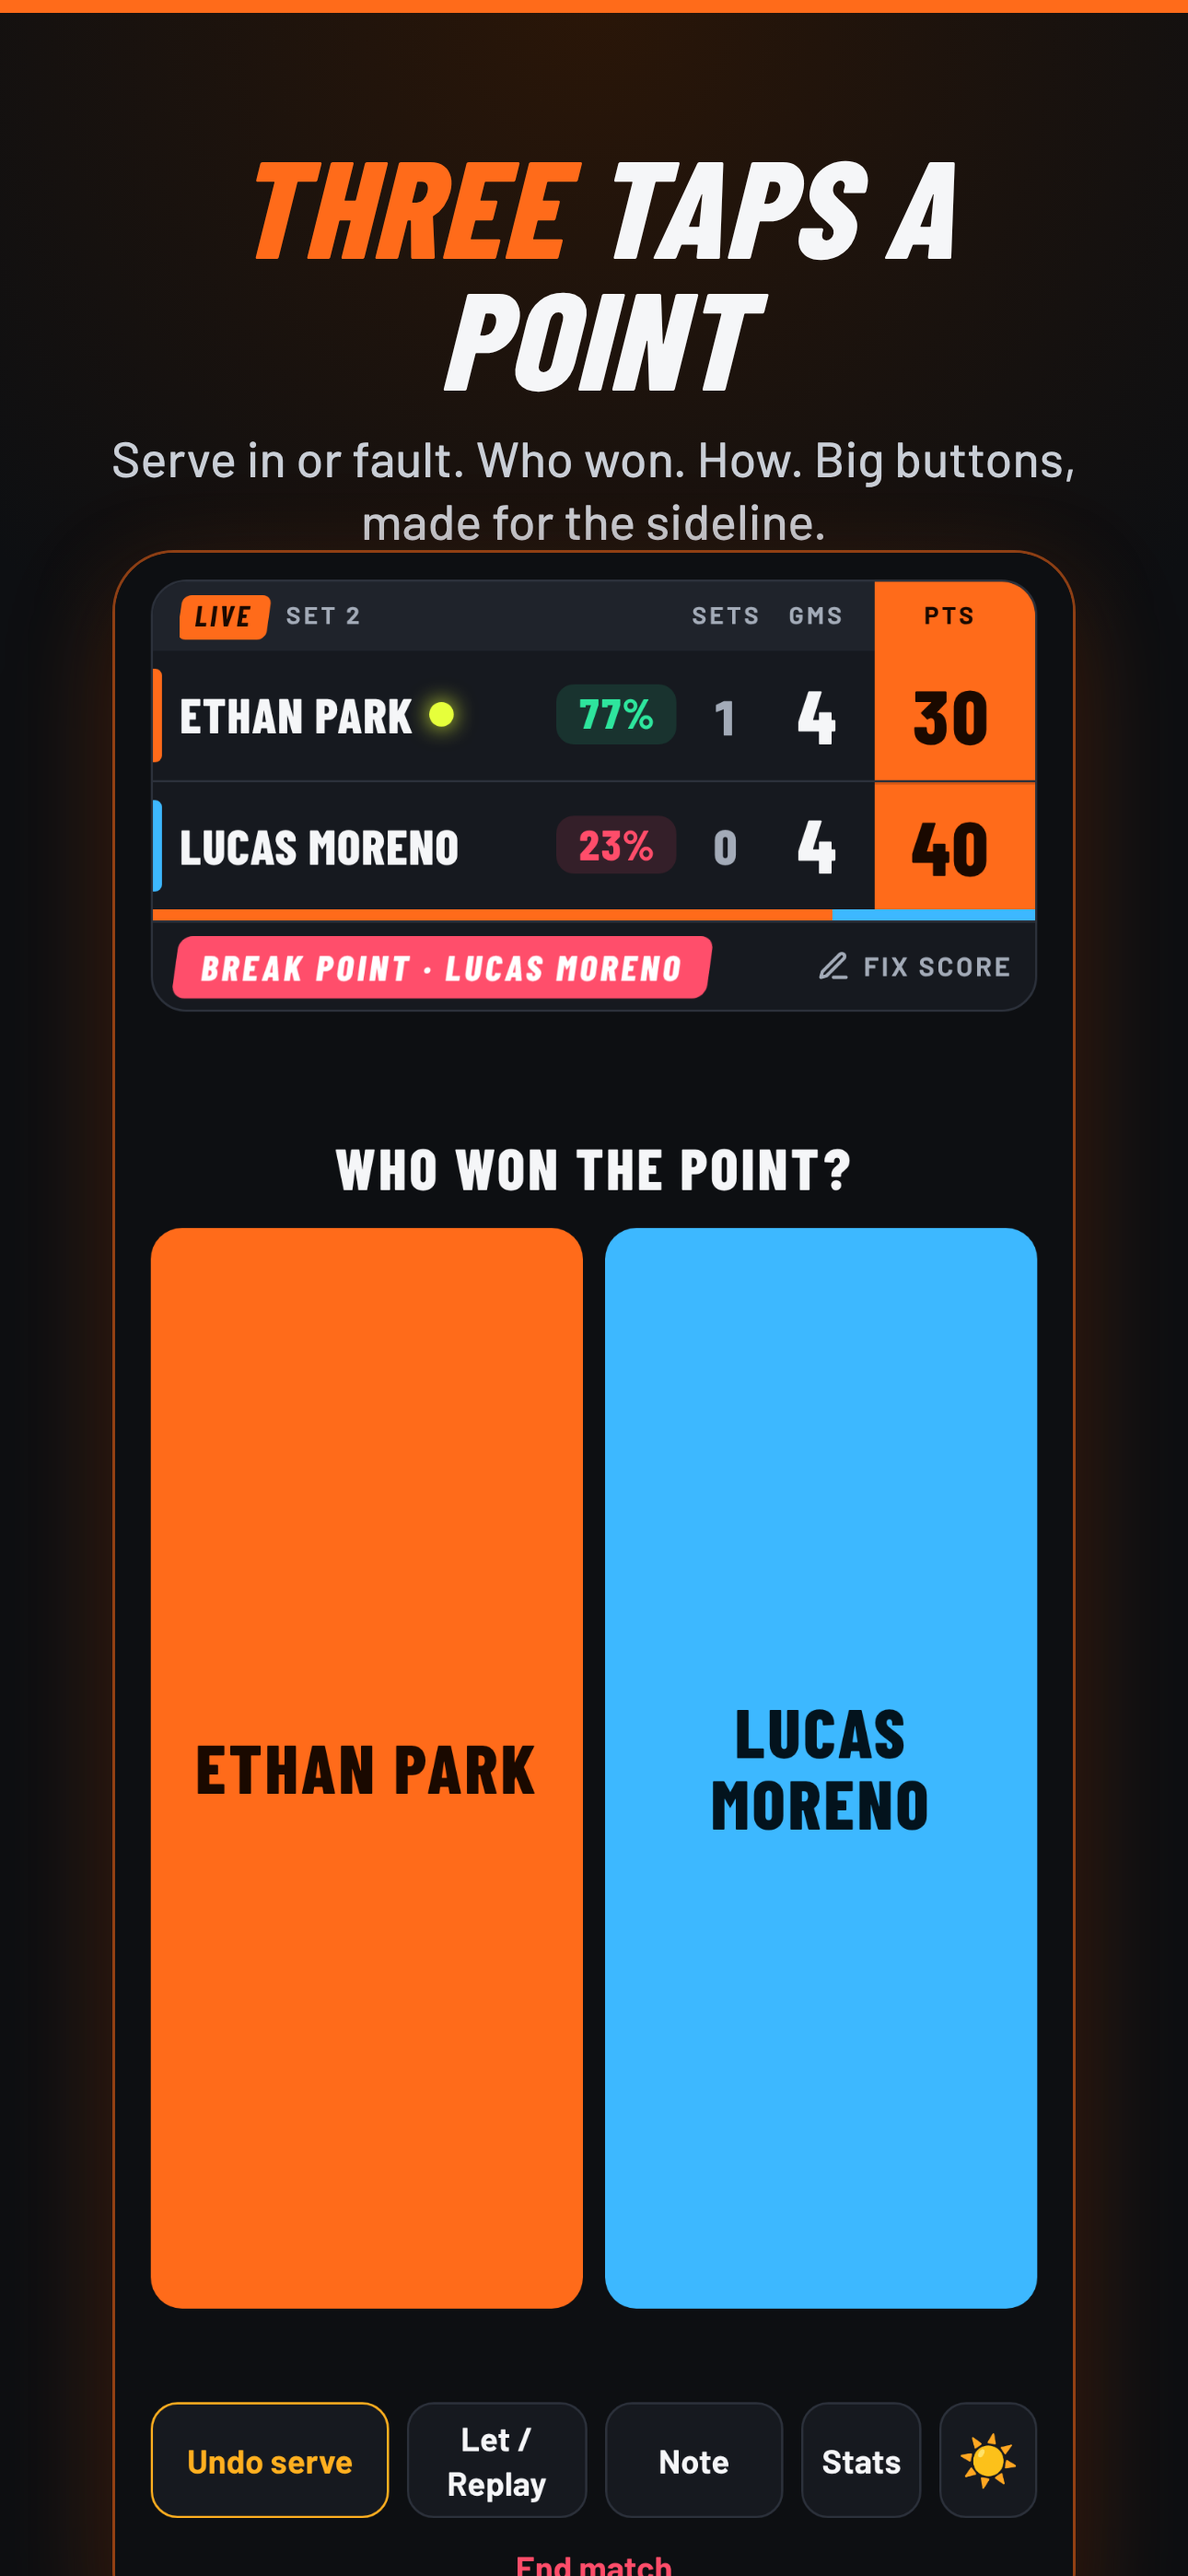
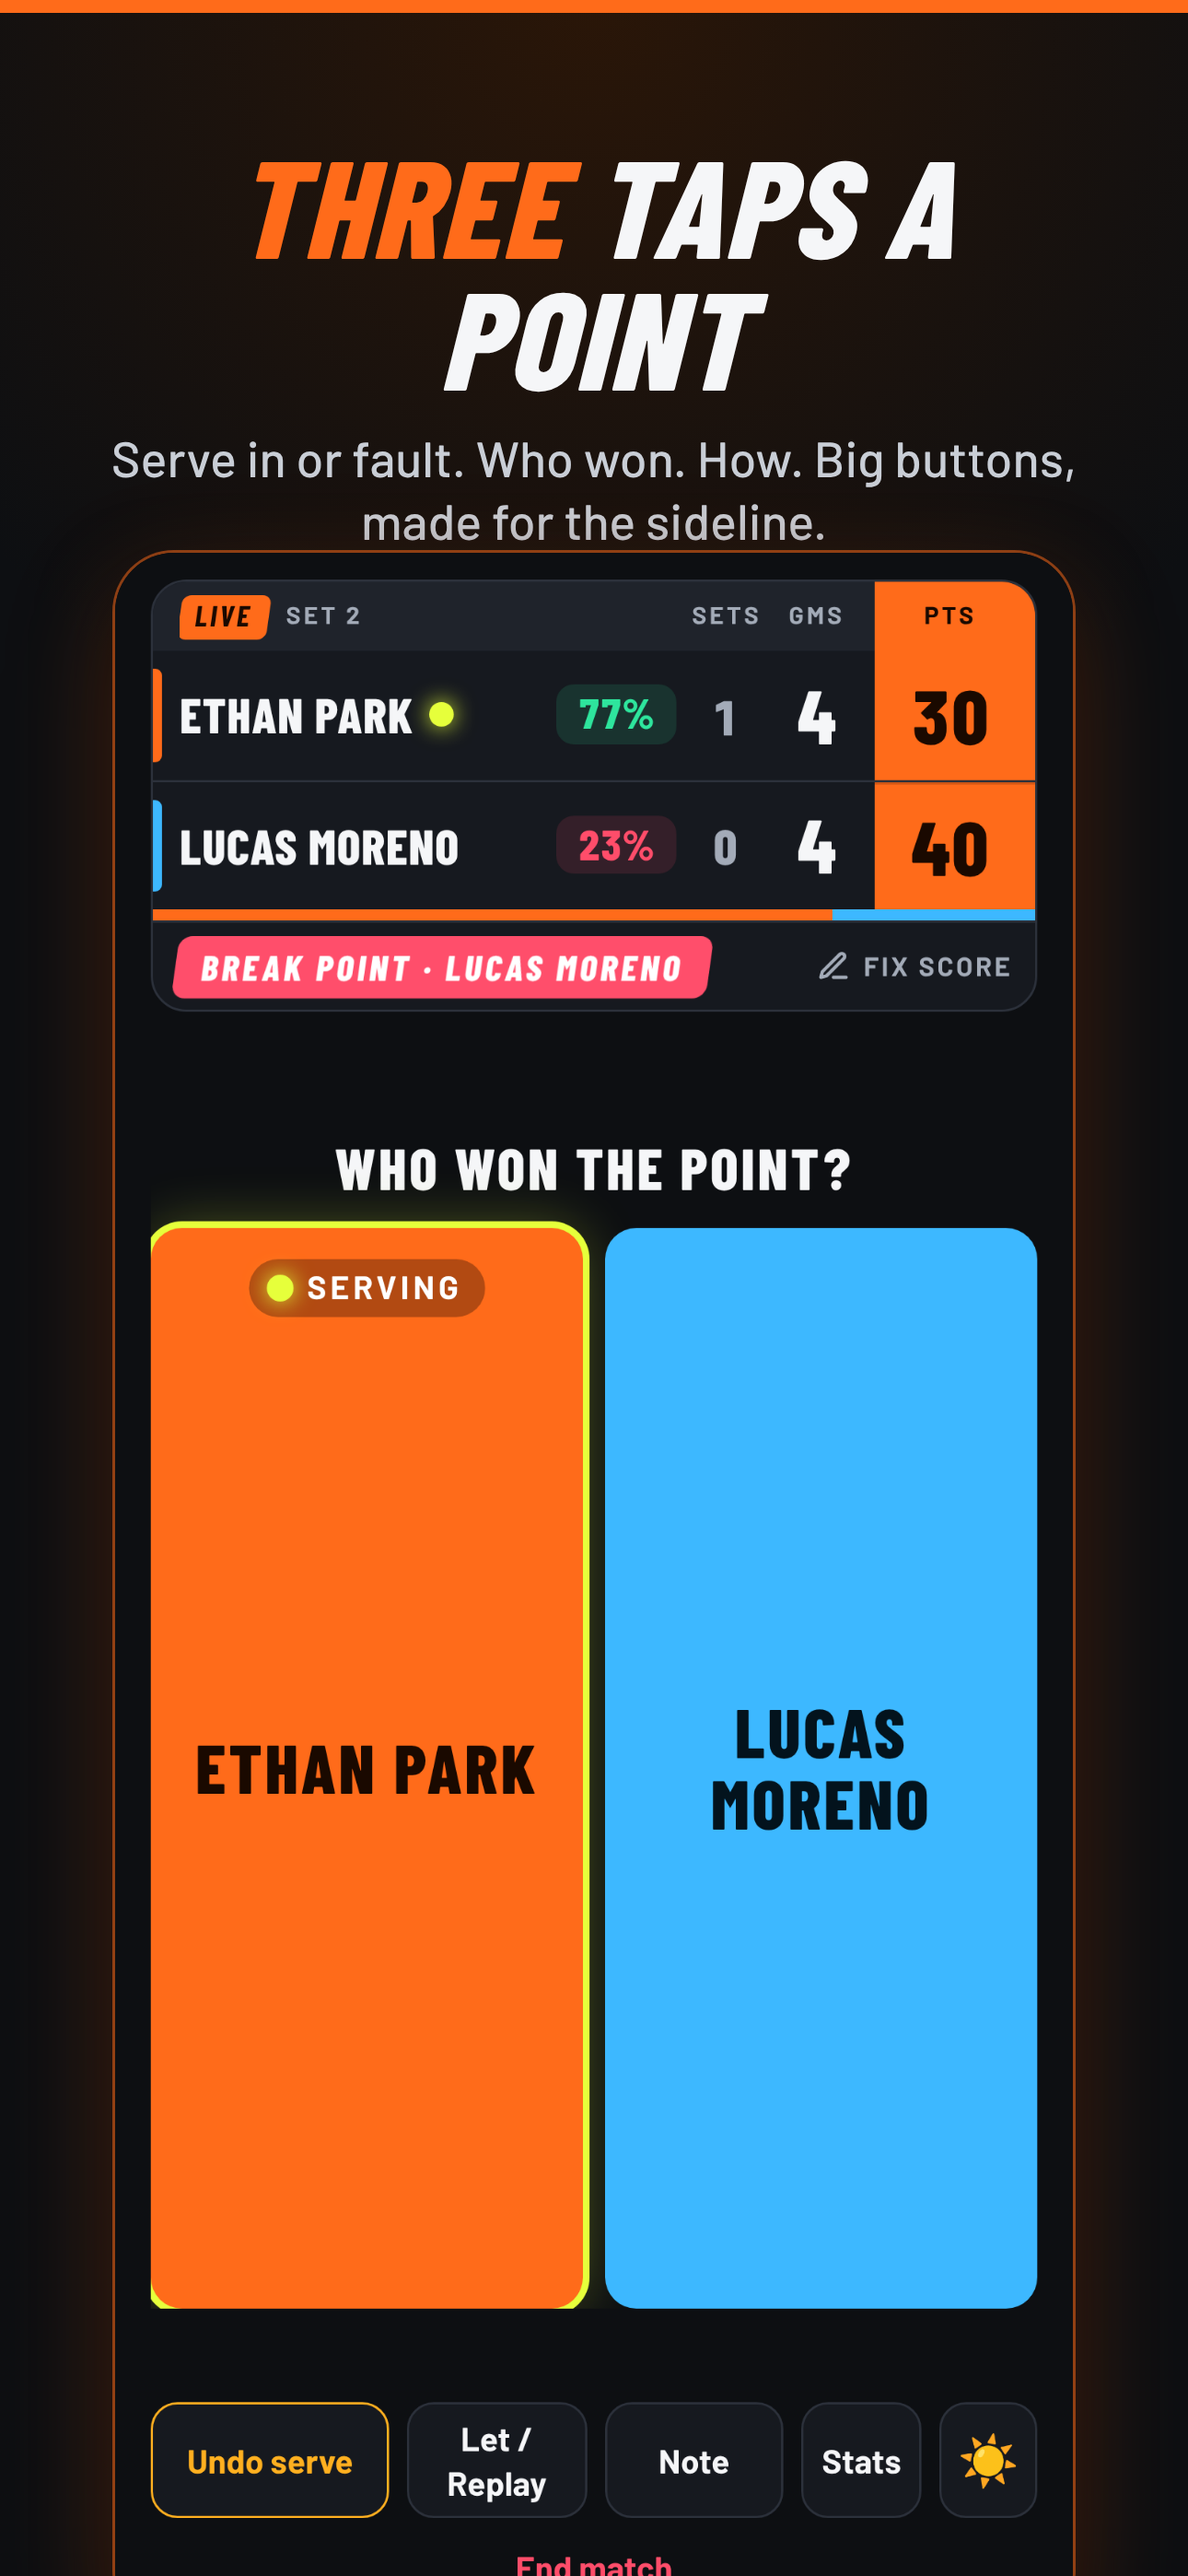
Highlight the server's button on Who won (yellow glow + Serving tag); refresh store screenshots
Claude-Session: https://claude.ai/code/session_01PJJEnFSadi4snHTyMEWpU6

Changed region(s): [[0.124, 0.4667, 0.5271, 0.9024]]

diff --git a/www/index.html b/www/index.html
@@ -81,6 +81,16 @@ h2{font-size:24px}
 .close{background:transparent;border:1.5px solid var(--line);color:var(--muted)}
 .close:active{background:var(--surface2)}
 #end-yes.close{border-color:var(--bad);color:var(--bad)}
+/* Who-won: highlight the server's button (buttons never move) */
+.stage>.row #w-p1,.stage>.row #w-p2{position:relative;padding-top:clamp(30px,6vh,44px);padding-bottom:clamp(30px,6vh,44px)}
+.stage>.row .wn{display:-webkit-box;-webkit-line-clamp:4;-webkit-box-orient:vertical;overflow:hidden;max-width:100%}
+.big.srv{box-shadow:0 0 0 3px var(--ball),0 0 26px rgba(230,255,59,.32)}
+.srvtag{position:absolute;top:clamp(8px,1.8vh,14px);left:50%;transform:translateX(-50%);display:inline-flex;align-items:center;gap:6px;font-family:var(--body);font-size:clamp(12px,3.4vw,15px);font-weight:700;letter-spacing:.12em;text-transform:uppercase;background:rgba(0,0,0,.3);color:#fff;padding:4px 10px 4px 8px;border-radius:999px;line-height:1.2;flex:none;white-space:nowrap}
+.srvtag i{width:clamp(10px,2.8vw,13px);height:clamp(10px,2.8vw,13px);border-radius:50%;background:var(--ball);box-shadow:0 0 10px var(--ball);flex:none}
+:root.sun .big.srv{box-shadow:0 0 0 4px #000}
+:root.sun .srvtag{background:rgba(0,0,0,.55)}
+@media (max-height:640px){.srvtag{font-size:11px;padding:3px 8px}}
+@media (prefers-reduced-motion:no-preference){.big.srv{transition:box-shadow .25s}}
 .ball-btn{background:var(--ball);color:#1b2a10}
 .me-btn{background:var(--me);color:var(--me-ink)}
 .opp-btn{background:var(--opp);color:var(--opp-ink)}
@@ -816,8 +826,8 @@ function render(){
   } else if (ui.step==="serve" || ui.step==="who"){
     ui.step="who";
     stage.innerHTML=`<div class="servelabel">Who won the point?</div>
-      <div class="row"><button class="big me-btn" id="w-p1">${esc(match.p1Name)}</button>
-      <button class="big opp-btn" id="w-p2">${esc(match.p2Name)}</button></div>`;
+      <div class="row"><button class="big me-btn ${st.curServer==="p1"?"srv":""}" id="w-p1">${st.curServer==="p1"?'<span class="srvtag" aria-label="serving"><i></i>Serving</span>':''}<span class="wn">${esc(match.p1Name)}</span></button>
+      <button class="big opp-btn ${st.curServer==="p2"?"srv":""}" id="w-p2">${st.curServer==="p2"?'<span class="srvtag" aria-label="serving"><i></i>Serving</span>':''}<span class="wn">${esc(match.p2Name)}</span></button></div>`;
     stage.querySelector("#w-p1").onclick=()=>{ui.pendingWinner="p1";ui.step="how";render();};
     stage.querySelector("#w-p2").onclick=()=>{ui.pendingWinner="p2";ui.step="how";render();};
   } else if (ui.step==="how"){

diff --git a/tests/srvshot.js b/tests/srvshot.js
@@ -1,0 +1,8 @@
+const { chromium } = require('playwright'); const path=require('path'); const OUT='/tmp/claude-0/-home-claude/4a0b0a2c-75e0-56c3-8650-556c75370853/scratchpad/mock';
+(async()=>{ const b=await chromium.launch(); const errs=[];
+ for(const [w,h,n1,n2] of [[320,568,'Ethan Park','Lucas Moreno'],[375,667,'Ethan Park','Lucas Moreno'],[390,844,'Maximilian Alexander Rodriguez-Hernandez','Christopher Jonathan Montgomery III'],[430,932,'Ava','Jo']]){
+ const p=await (await b.newContext({viewport:{width:w,height:h},deviceScaleFactor:2,isMobile:true,hasTouch:true})).newPage(); p.on('pageerror',e=>errs.push(e.message));
+ await p.goto('file://'+path.resolve(__dirname,'../www/index.html')); await p.evaluate(()=>localStorage.clear()); await p.reload(); await p.evaluate(()=>document.fonts.ready);
+ await p.fill('#p2name',n2); await p.fill('#p1name',n1); await p.click('#btn-start'); await p.waitForTimeout(300); await p.click('#sf-p2'); await p.waitForTimeout(300);
+ await p.click('#sv-in'); await p.waitForTimeout(400); await p.screenshot({path:`${OUT}/s_${w}.png`}); }
+ await b.close(); console.log(errs.length?errs:'no page errors'); })();
